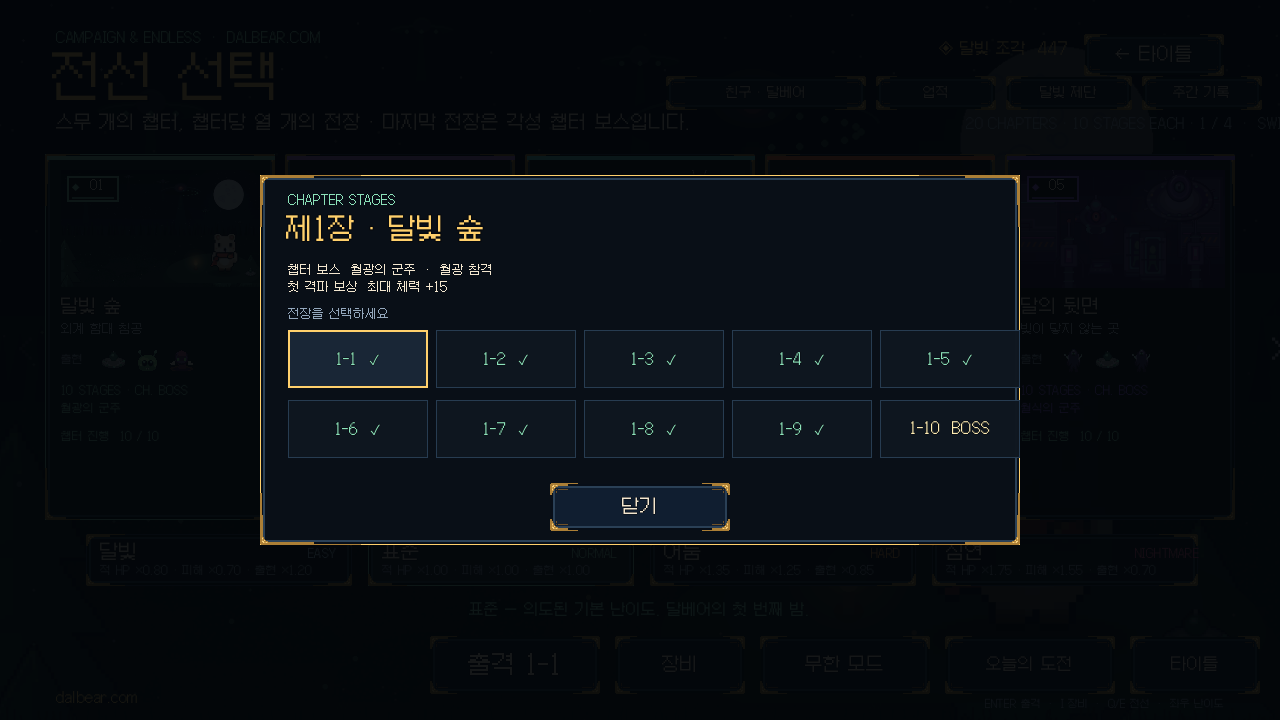
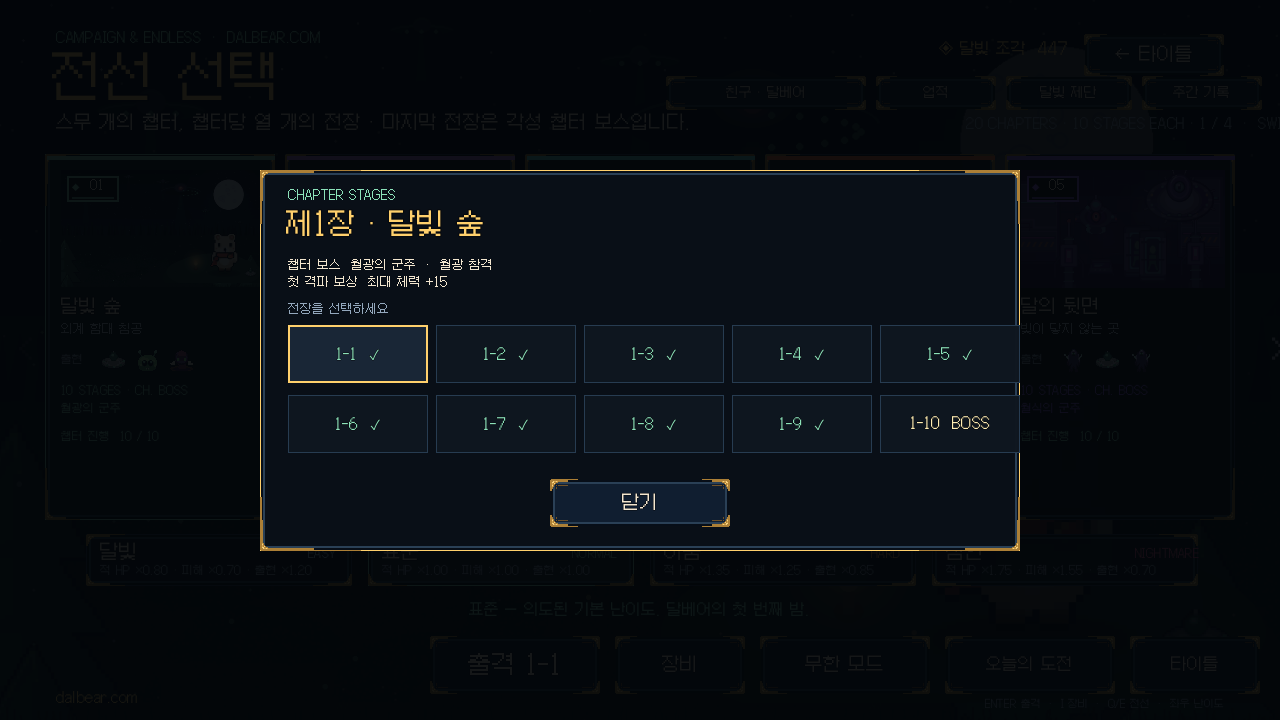
fix: keep stage picker close button inside panel (v1.25.2)

diff --git a/tools/play_upload.py b/tools/play_upload.py
@@ -37,18 +37,14 @@ DEFAULT_CREDENTIALS = Path("secrets/play-service-account.json")
 
 DEFAULT_NOTES = {
     "ko-KR": (
-        "v1.25.1 업데이트\n"
-        "- 20개 챕터 / 200개 전장으로 확장\n"
-        "- 챕터별 10번째 보스에 고유 스킬과 영구 능력치 보상 추가\n"
-        "- 200종 신규 변이 적과 전장별 난이도 스케일링 적용\n"
-        "- 챕터 선택 및 전장 선택 UI 개선"
+        "v1.25.2 업데이트\n"
+        "- 챕터 전장 선택 창의 닫기 버튼이 화면 비율에 따라 잘리던 문제 수정\n"
+        "- 울트라와이드·태블릿에서 모달 중앙 정렬과 하단 여백 개선"
     ),
     "en-US": (
-        "v1.25.1 update\n"
-        "- Expanded to 20 chapters and 200 stages\n"
-        "- Chapter bosses now have unique skills and permanent stat rewards\n"
-        "- Added 200 new variant enemies and per-stage difficulty scaling\n"
-        "- Improved chapter and stage selection UI"
+        "v1.25.2 update\n"
+        "- Fixed the close button being clipped in the chapter stage picker on some aspect ratios\n"
+        "- Improved modal centering and bottom spacing on ultrawide and tablet screens"
     ),
 }
 
